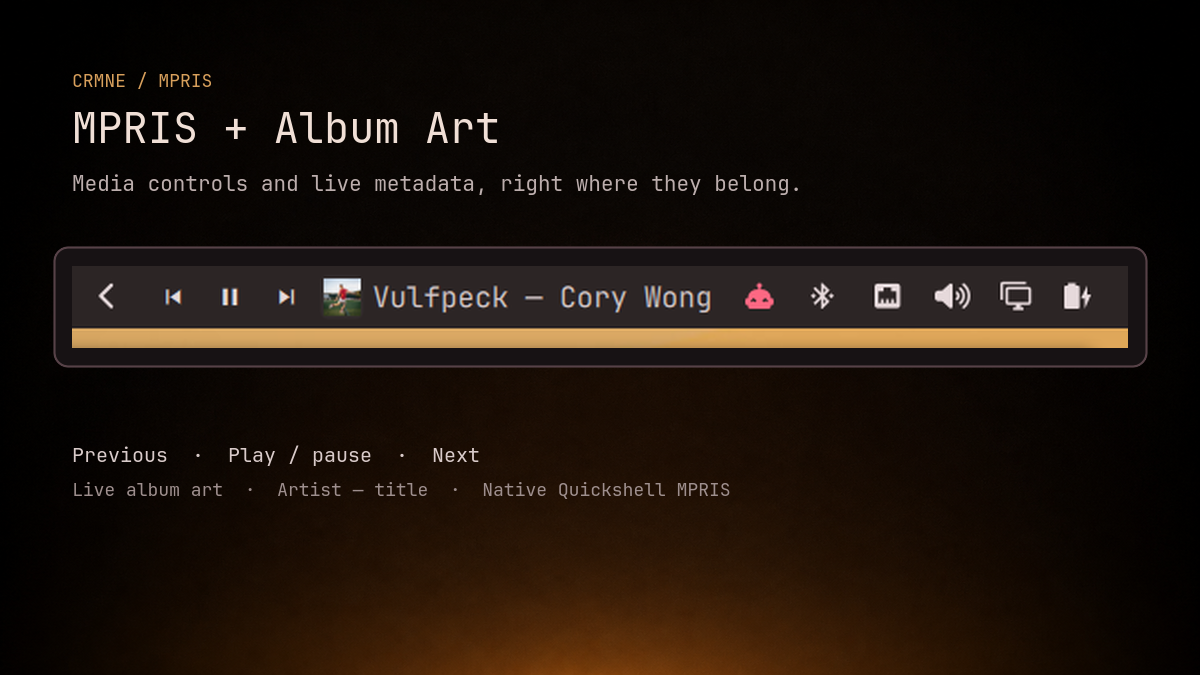
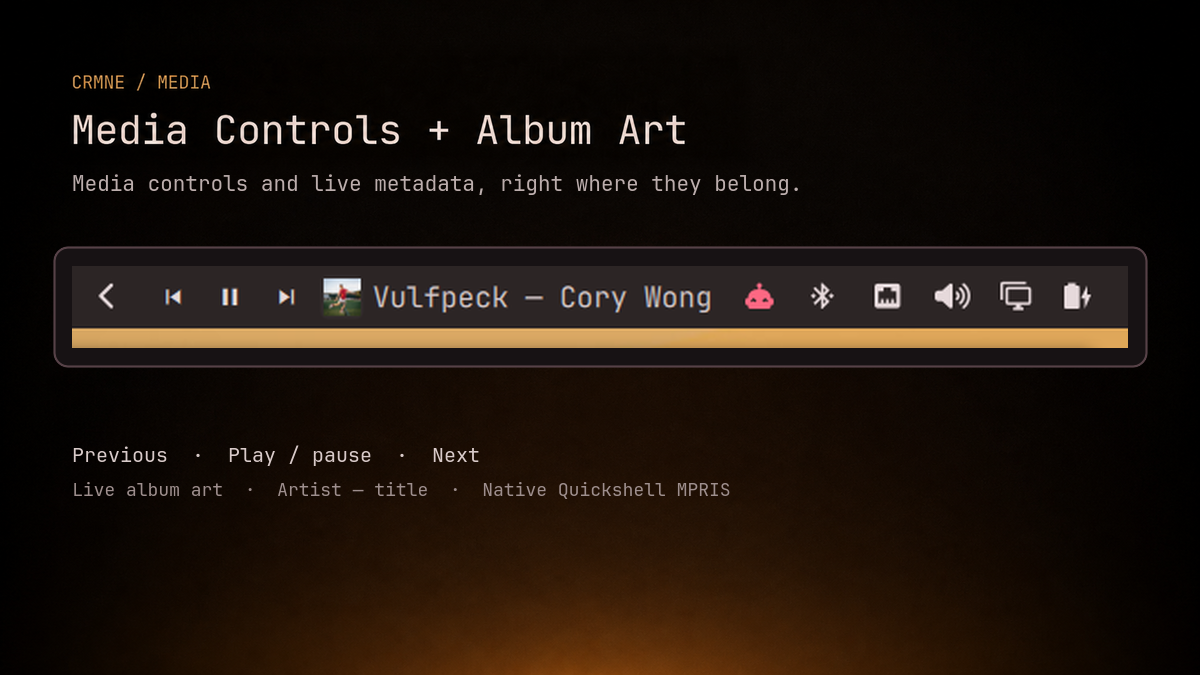
Rename plugin for media discovery

Changed region(s): [[0.0617, 0.0933, 0.5858, 0.2178]]

diff --git a/README.md b/README.md
@@ -1,15 +1,16 @@
-# crmne MPRIS for Omarchy
+# Media Controls + Album Art for Omarchy
 
-A native Quattro/Quickshell bar plugin that restores the media cluster from the
-old Waybar setup:
+A native Quattro/Quickshell now-playing widget for the Omarchy bar, with media
+controls, live album art, and artist/title details:
 
-![MPRIS + Album Art in the Omarchy bar](preview.png)
+![Media Controls + Album Art in the Omarchy bar](preview.png)
 
 `previous` · `play/pause` · `next` · `album art` · `artist — title`
 
-The widget uses Quickshell's MPRIS service directly. It does not poll
-`playerctl`, download cover art into `/tmp`, or depend on the old Waybar
-scripts.
+It works with Spotify and other Linux media players that expose the standard
+MPRIS interface. The widget uses Quickshell's MPRIS service directly: it does
+not poll `playerctl`, download cover art into `/tmp`, or depend on the old
+Waybar scripts.
 
 ## Install
 
